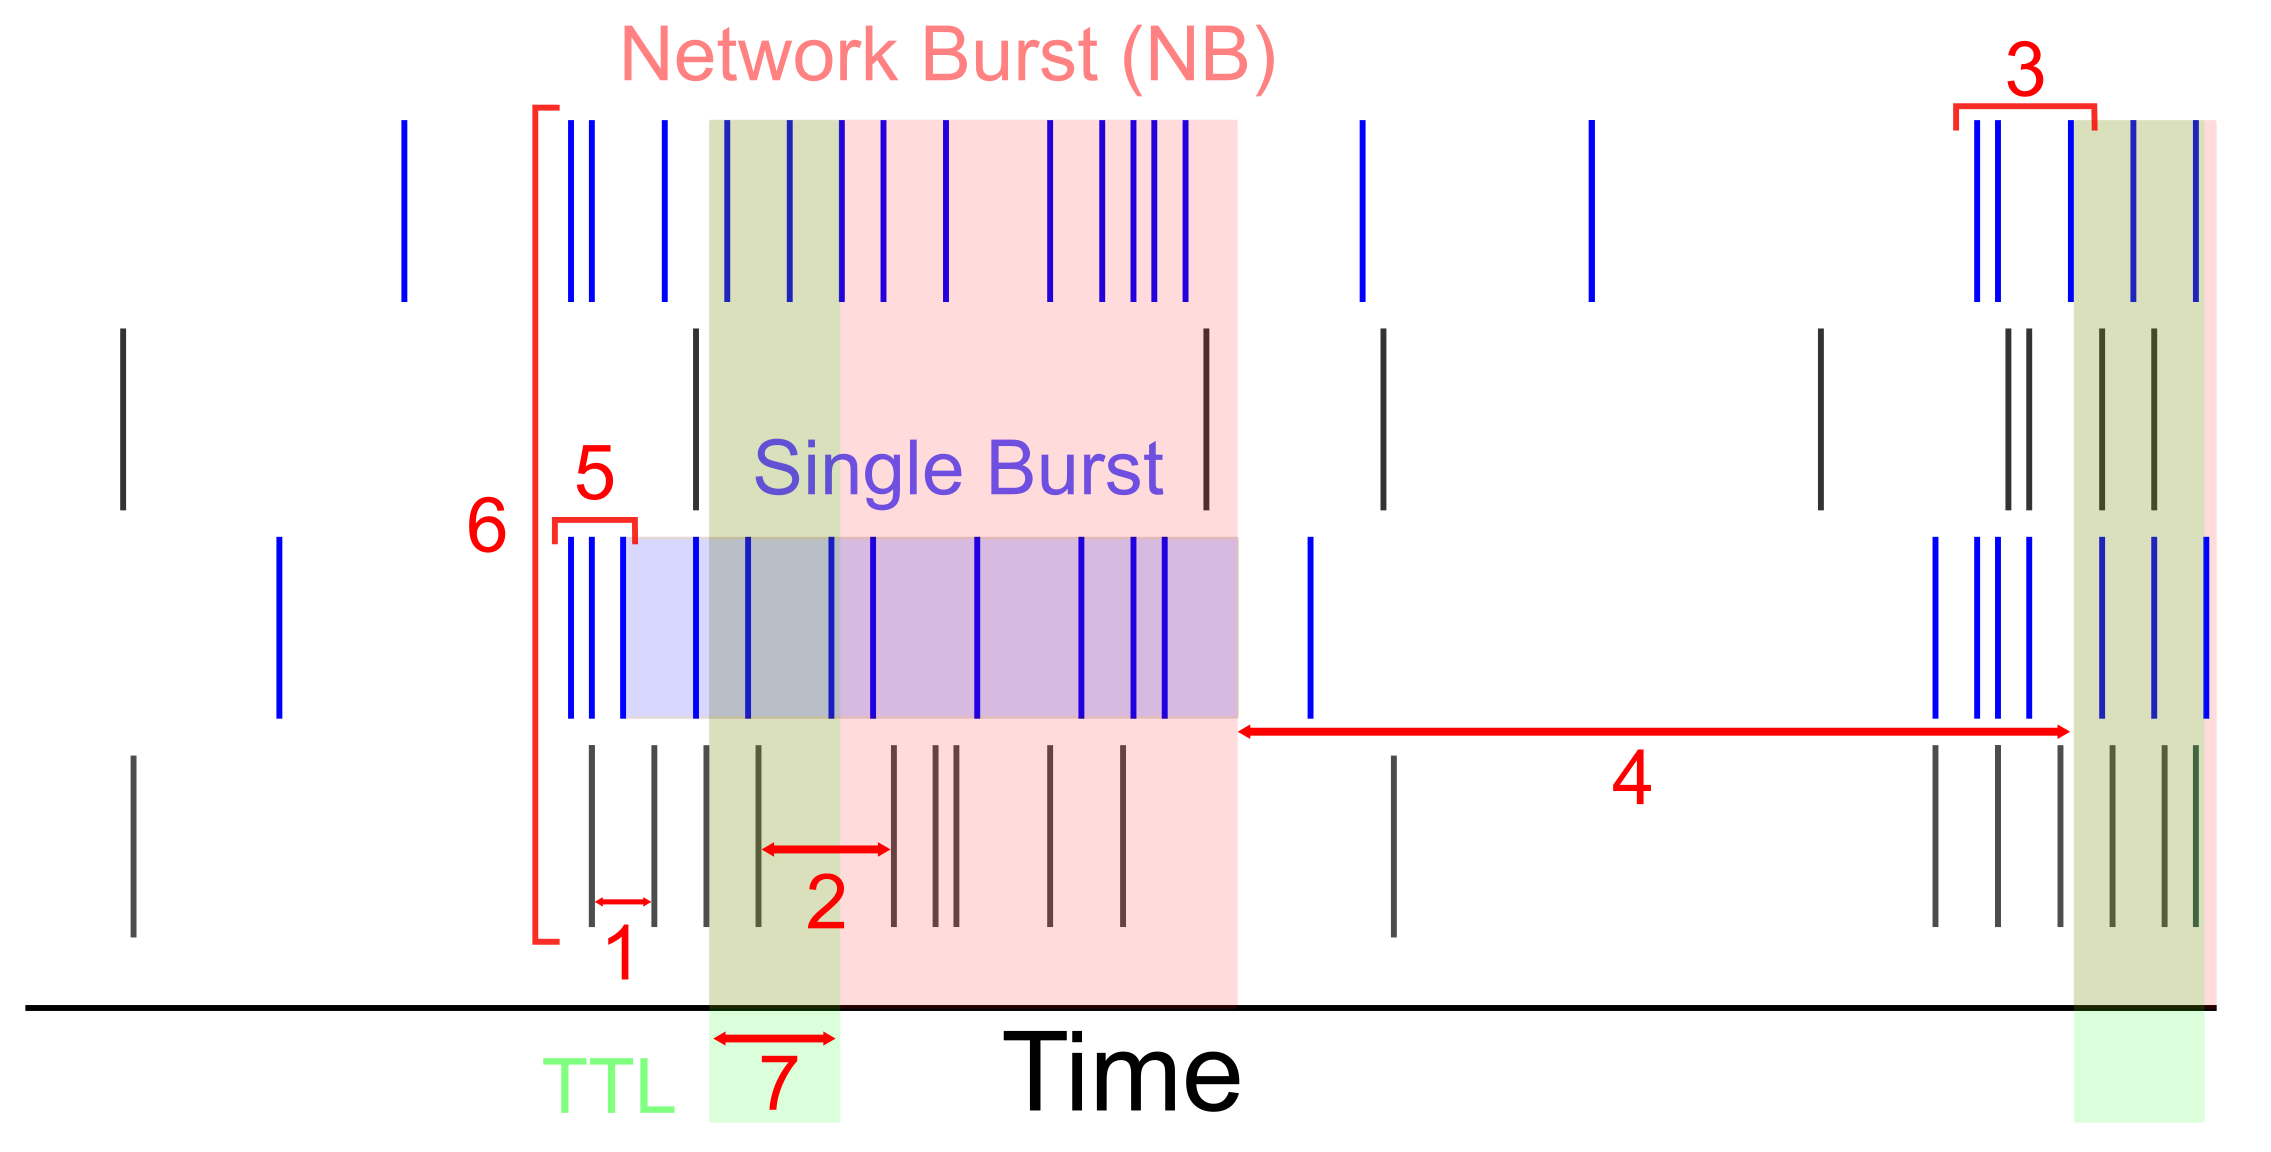
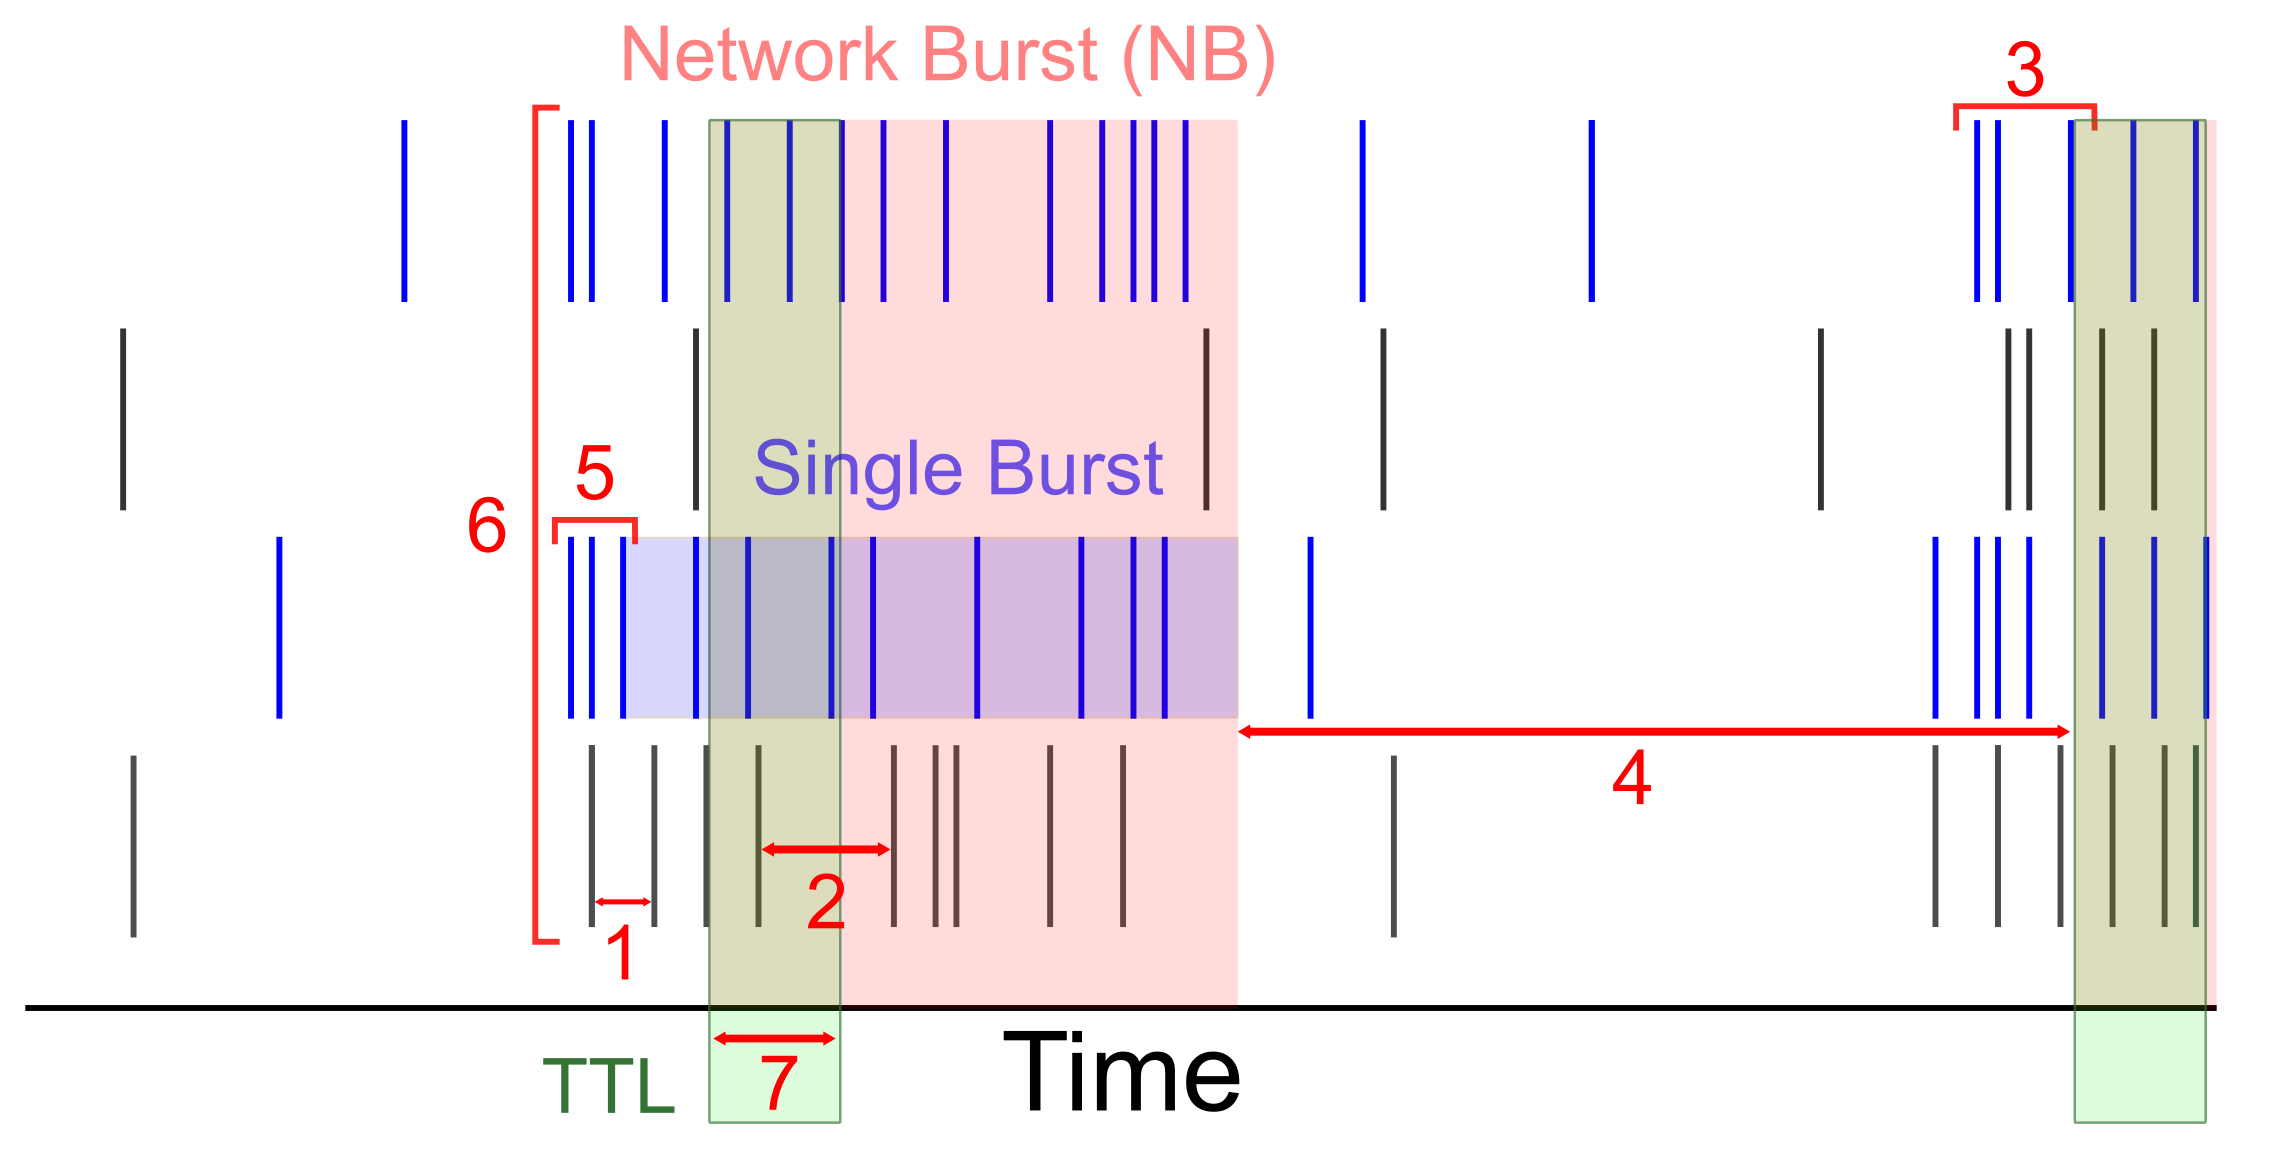
Revert_Commit

Changed region(s): [[0.2466, 0.9062, 0.3082, 0.9688]]

diff --git a/Source/BurstDetectorEditor.cpp b/Source/BurstDetectorEditor.cpp
@@ -23,7 +23,7 @@ along with this program.  If not, see <http://www.gnu.org/licenses/>.
 /*
 Burst Detector Plugin was developed by:
 Pedro Félix Alves (pedrofalves@i3s.up.pt)
-Paulo Aguiar (pauloaguiar@i3s.up.pt)
+Paulo Aguiar
 Neuroengineering and Computational Neuroscience Lab
 i3S - Institute for Research and Innovation in Health
 University of Porto, Portugal
@@ -49,7 +49,6 @@ BurstDetectorEditor::BurstDetectorEditor(GenericProcessor* parentNode)
     addAndMakeVisible (noInputChannelsLabel);
 
     // spike channels
-    // component->setBounds(x, y, width, height);
     spikeChannelViewport = new ElectrodeViewport();
     spikeChannelViewport->setScrollBarsShown (true, false, false, false);
     spikeChannelViewport->setBounds (10, 30, VIEWPORT_WIDTH, VIEWPORT_HEIGHT);
@@ -60,6 +59,7 @@ BurstDetectorEditor::BurstDetectorEditor(GenericProcessor* parentNode)
 
     // Multi-select popup for choosing which active electrodes' single-electrode
     // bursts drive the "Single Line" TTL (replaces a blanket per-stream toggle).
+    // component->setBounds(x, y, width, height);
     singleBurstMonitorLabel = new Label ("SingleBurstMonitorLabel", "Single Burst");
     singleBurstMonitorLabel->setFont (Font (11.0f));
     singleBurstMonitorLabel->setJustificationType (Justification::centred);

diff --git a/README.md b/README.md
@@ -8,7 +8,7 @@ The Burst Detector plugin detects both **single-electrode bursts** and **network
 
 This plugin aims to extend the applicability of the Open Ephys GUI to **in vitro electrophysiology**, providing an online burst detector suitable for microelectrode array (MEA) recordings.
 
-![open-ephys](Resources/open_ephys_burst_detector_2.png)
+![open-ephys](Resources/open_ephys_burst_detector.png)
 
 ## Usage
 
@@ -39,7 +39,7 @@ This plugin aims to extend the applicability of the Open Ephys GUI to **in vitro
 
 9. `NETWORK_LINE` controls the TTL line of the network burst trigger (default = 1).
 
-10. `SINGLE_BURST` (selector) controls what channels to detect and trigger single bursts for (default = None).
+10. `SINGLE_TTL` (bool) controls whether to send TTL events for single-channel bursts (default = False).
 
 
 ![open-ephys](Resources/plugin_schematic.png)
